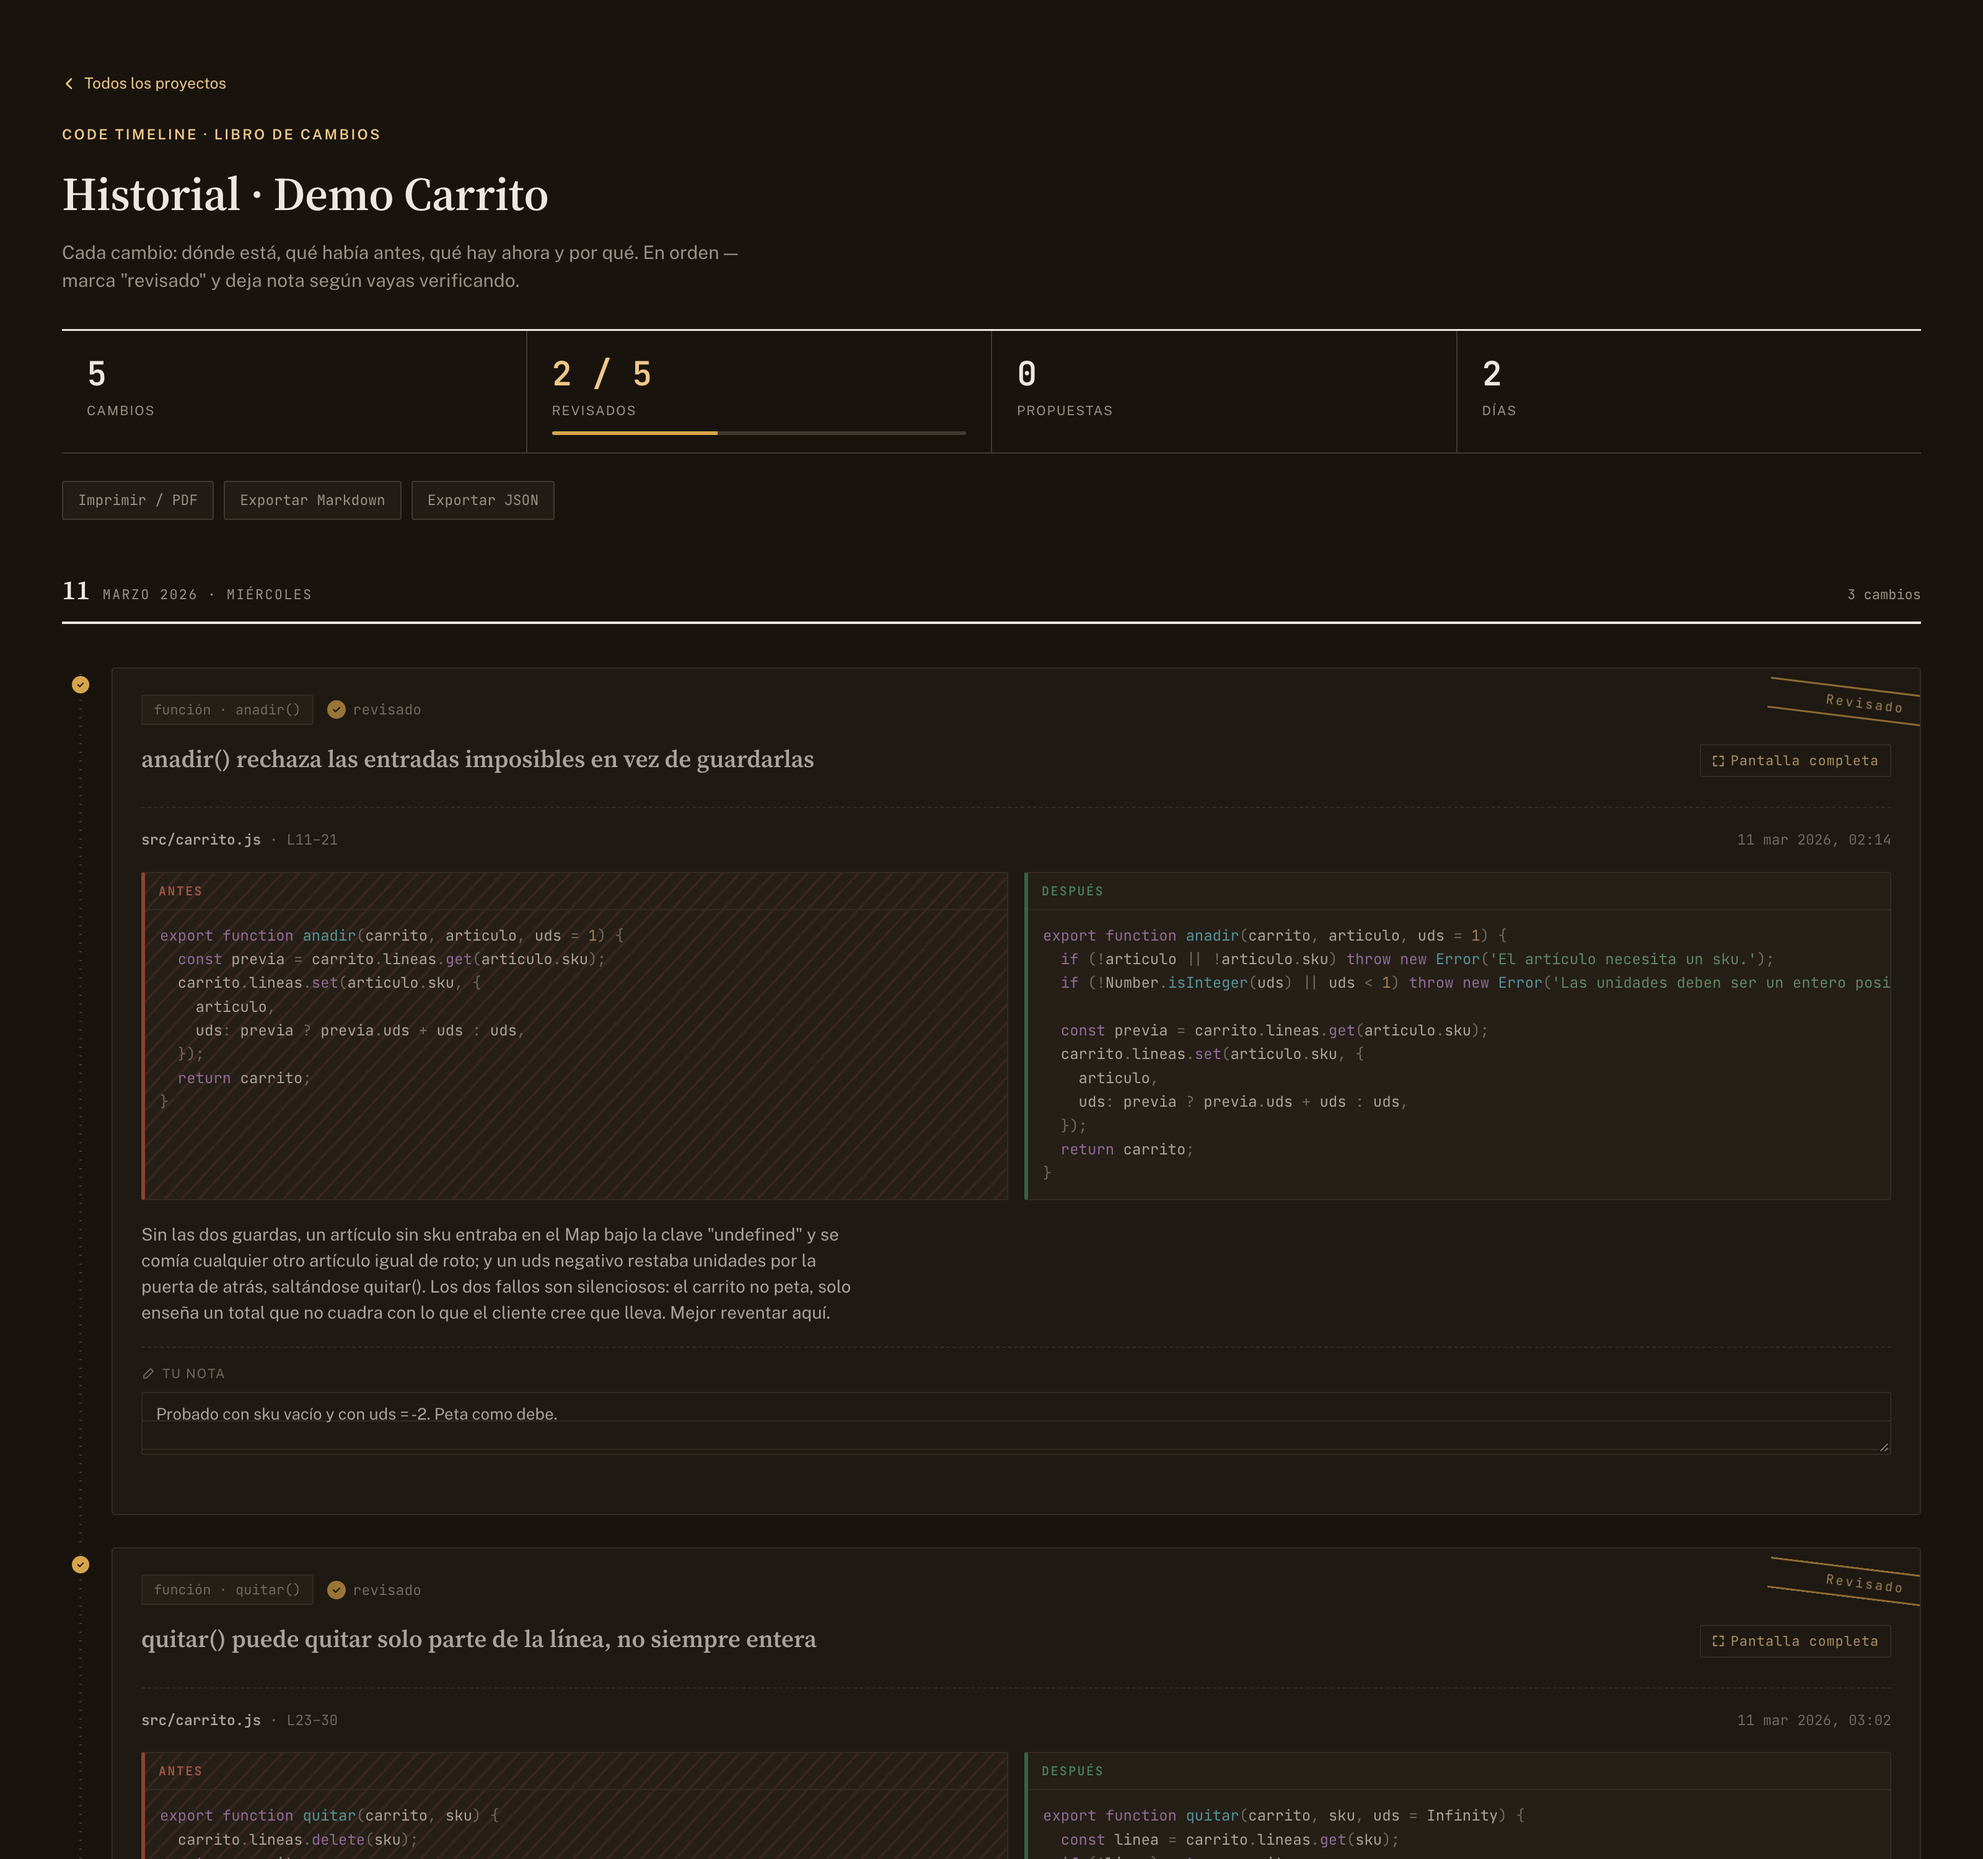
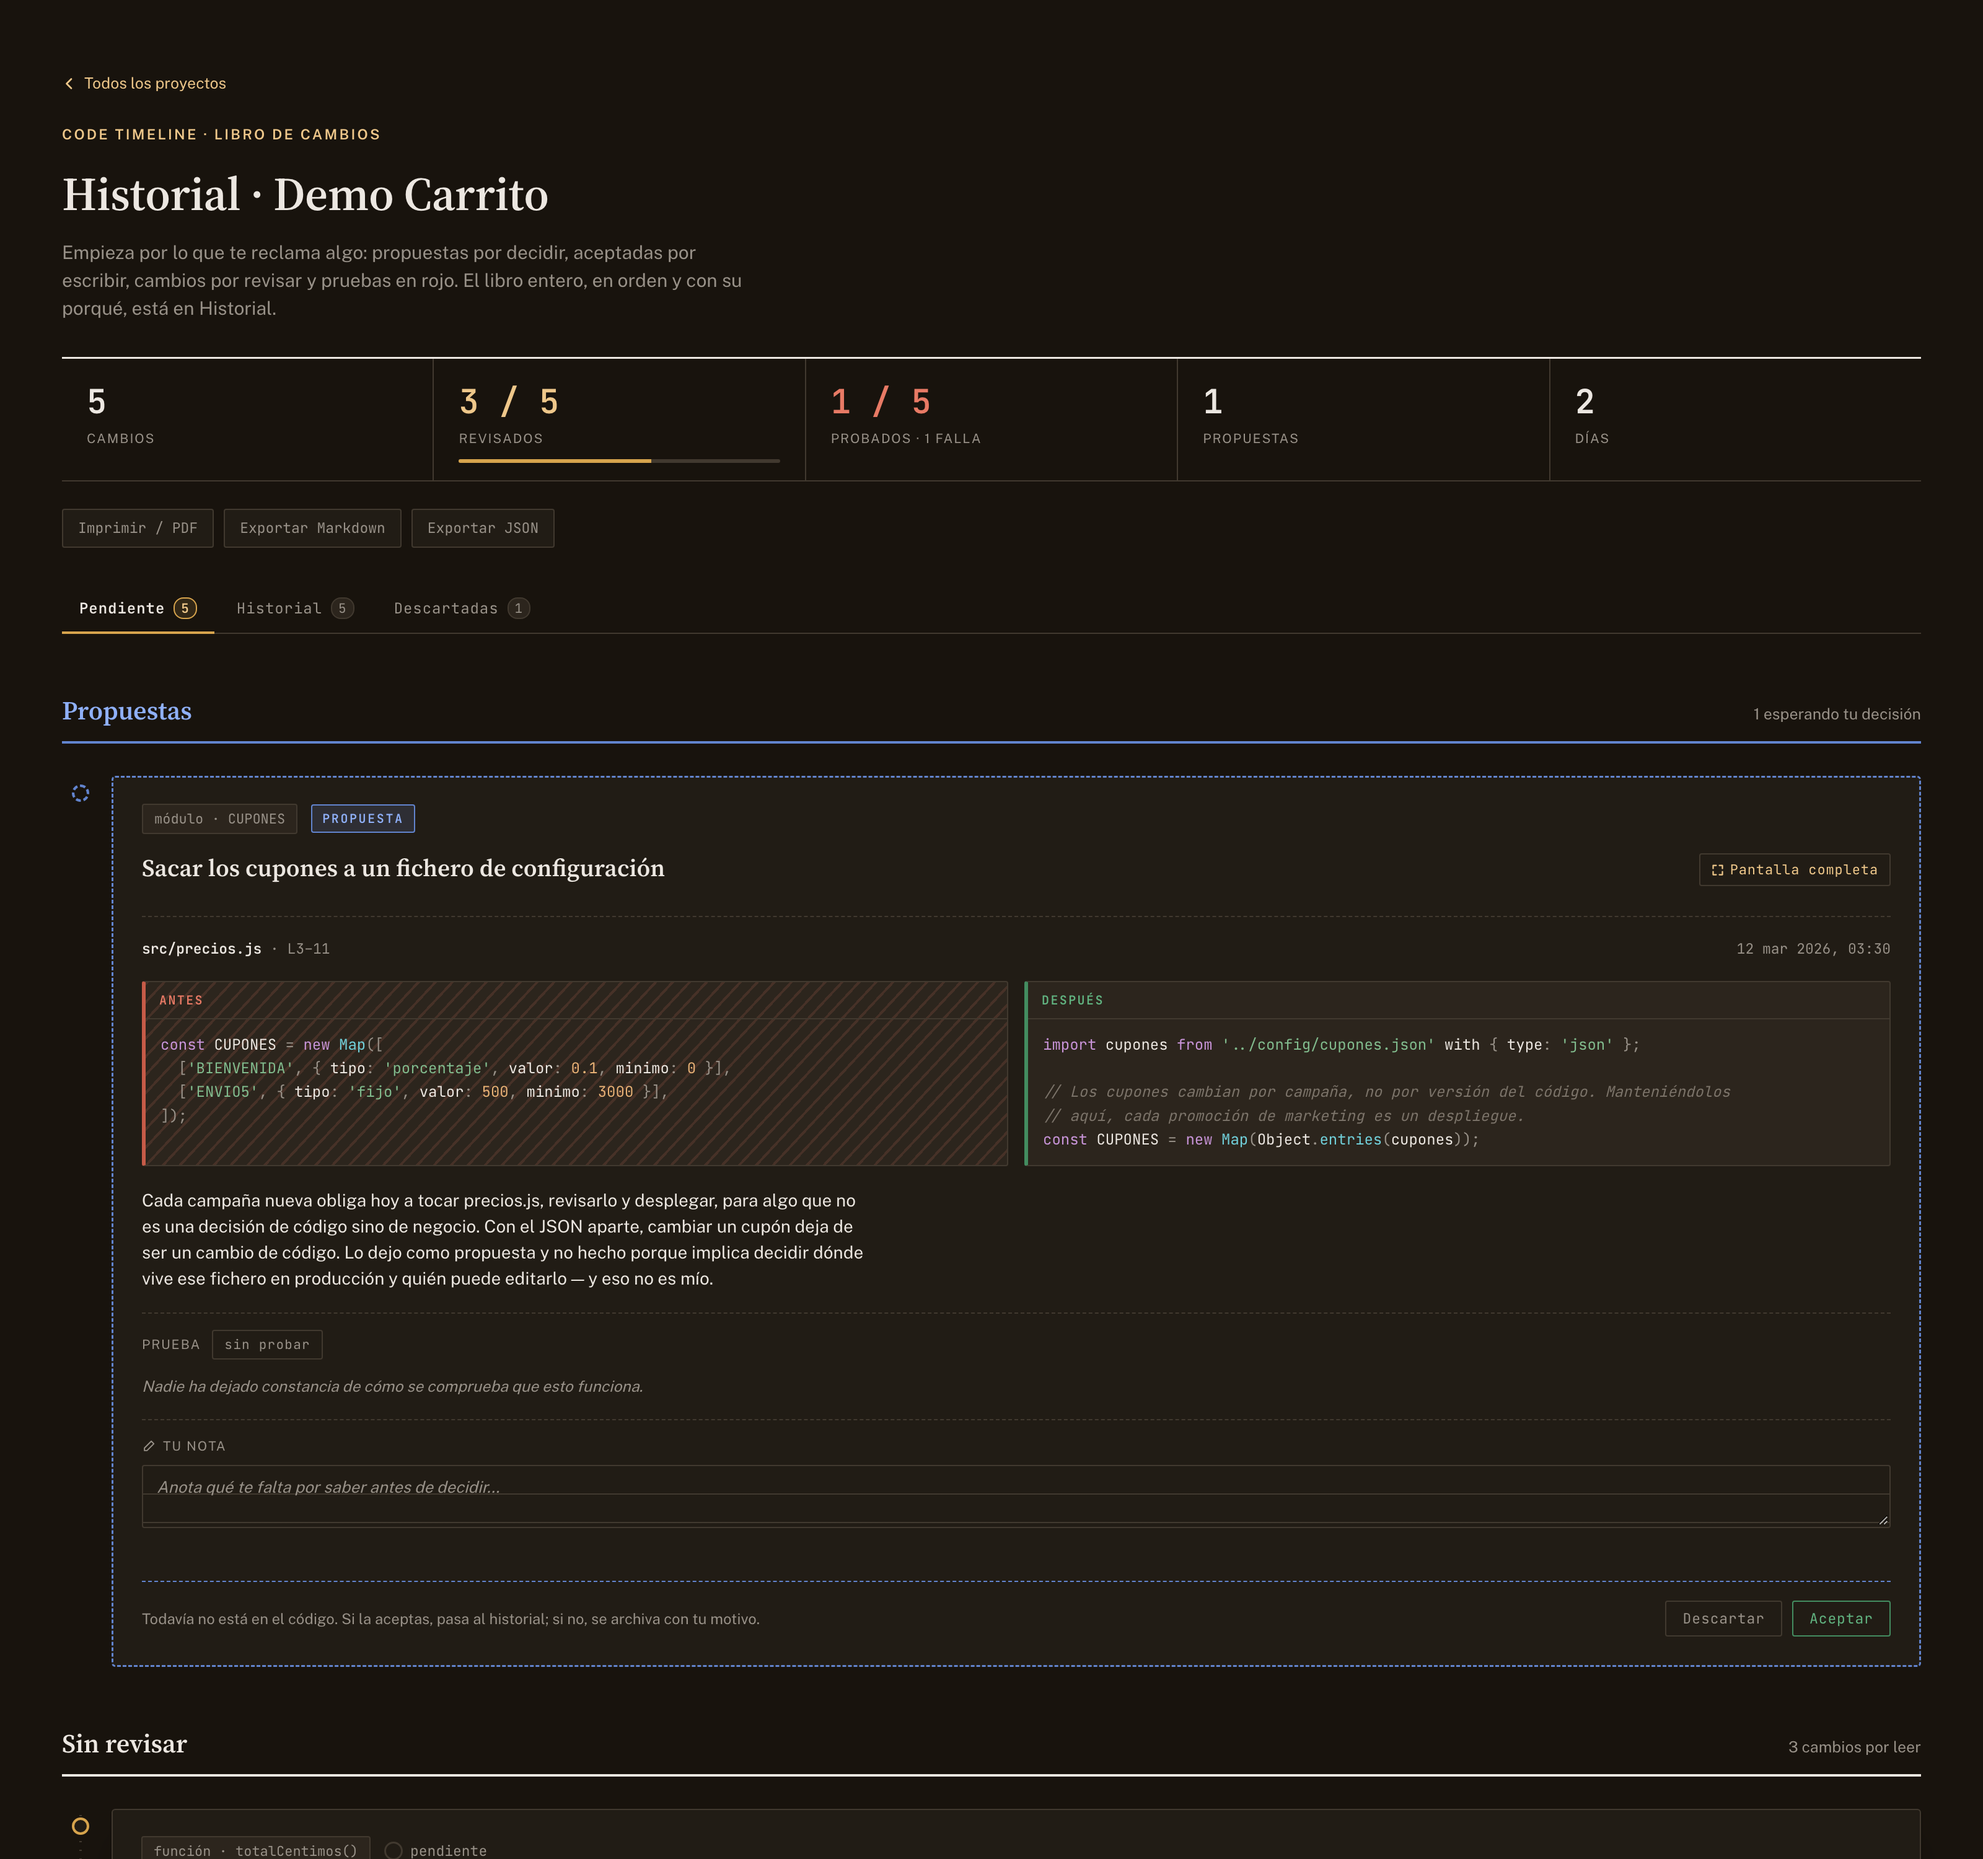
El historial pasa a una pestaña: la página abre por lo pendiente
Abría siempre por el libro entero, y el uso diario no es leerlo de
principio a fin: es ver qué reclama algo. Tres vistas, y arranca en
Pendiente.

Pendiente reúne lo accionable en el orden en que estorba: propuestas por
decidir, aceptadas por escribir, cambios sin revisar, y las pruebas en
rojo. Estas últimas se cuelan aunque el cambio ya esté revisado — un test
fallando no deja de fallar porque alguien haya leído el diff.

Si no hay nada pendiente abre en Historial: enseñar una pestaña vacía
sería enseñar el vacío en vez del trabajo. La pestaña elegida se recuerda
por proyecto en localStorage.

Imprimir sigue sacando las tres vistas, esté abierta la que esté: una
pestaña es un estado de pantalla, no del documento. Comprobado — el PDF
sale con sus 11 páginas.

diff --git a/README.md b/README.md
@@ -14,6 +14,12 @@ historial se exporta a JSON (respaldo y traslado), a Markdown y a PDF.
 
 ![Timeline de un proyecto](docs/img/timeline.png)
 
+La página abre por **Pendiente**: lo que reclama algo tuyo — propuestas por
+decidir, aceptadas por escribir, cambios por revisar y pruebas en rojo. El
+libro completo vive en la pestaña **Historial**, y las propuestas descartadas
+en la suya. Imprimir saca las tres, esté abierta la que esté: una pestaña es
+un estado de pantalla, no del documento.
+
 ## Por qué, si ya existe `git log`
 
 No lo sustituye, lo complementa. Un commit agrupa varios cambios de una
